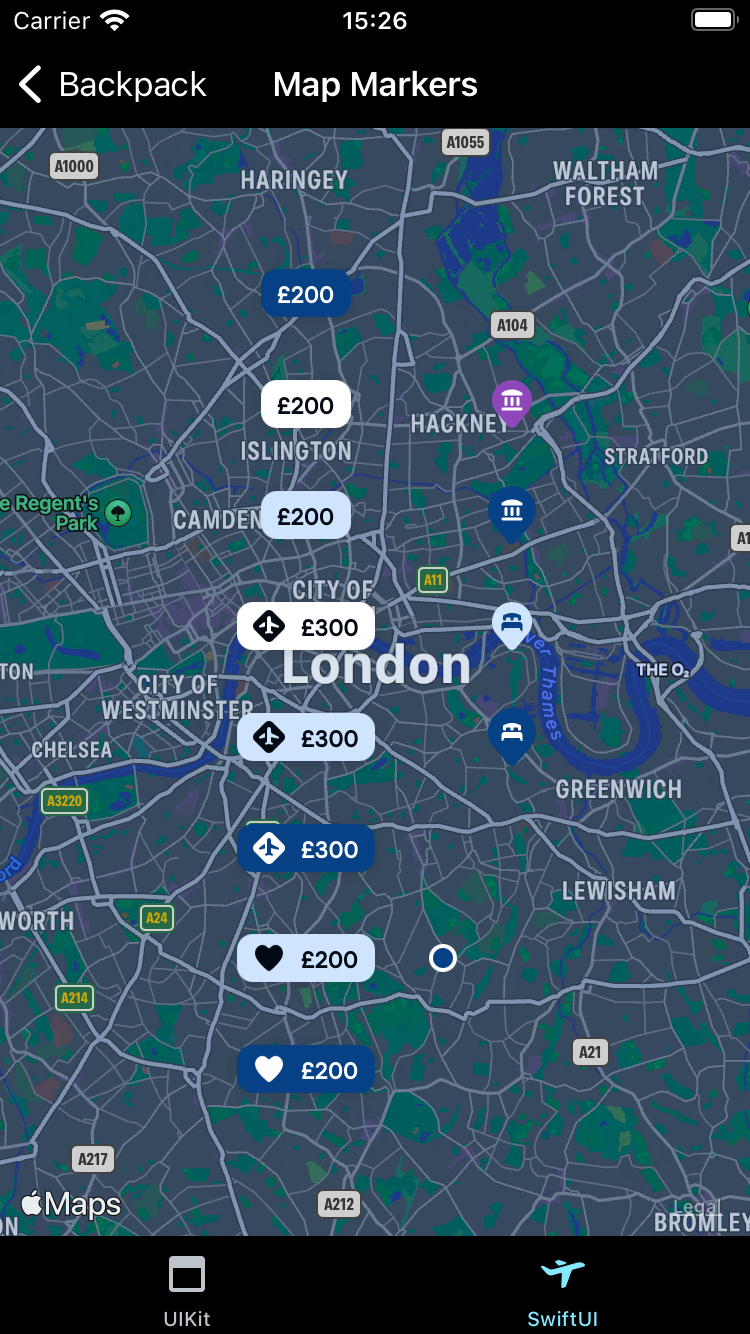
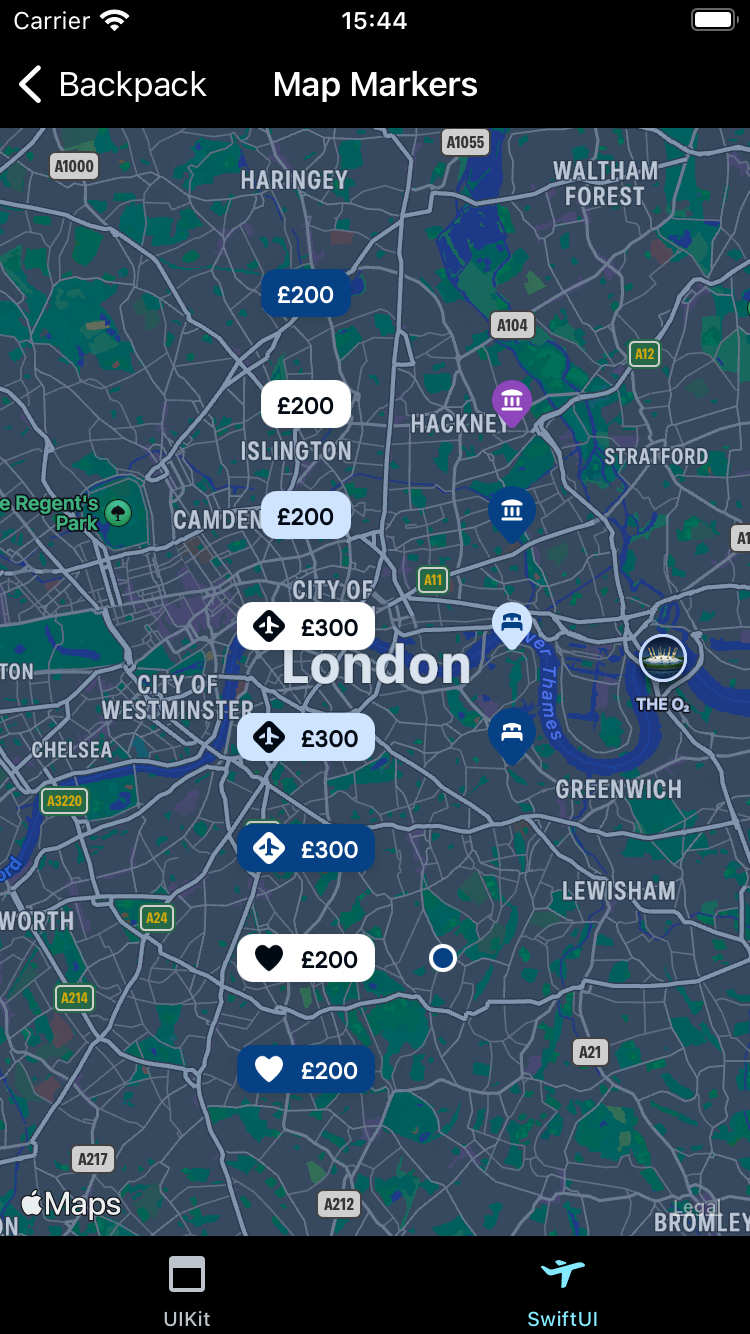
Update examples

diff --git a/Example/Backpack/SwiftUI/Components/MapMarker/MapMarkerExampleView.swift b/Example/Backpack/SwiftUI/Components/MapMarker/MapMarkerExampleView.swift
@@ -67,7 +67,7 @@ struct MapMarkerExampleView: View {
                     coordinate: .init(latitude: 51.47, longitude: -0.1)
                 ),
                 Annotation(
-                    marker: .price("£200", .previousSelected, .save),
+                    marker: .price("£200", .unselected, .save),
                     coordinate: .init(latitude: 51.45, longitude: -0.1)
                 ),
                 Annotation(
